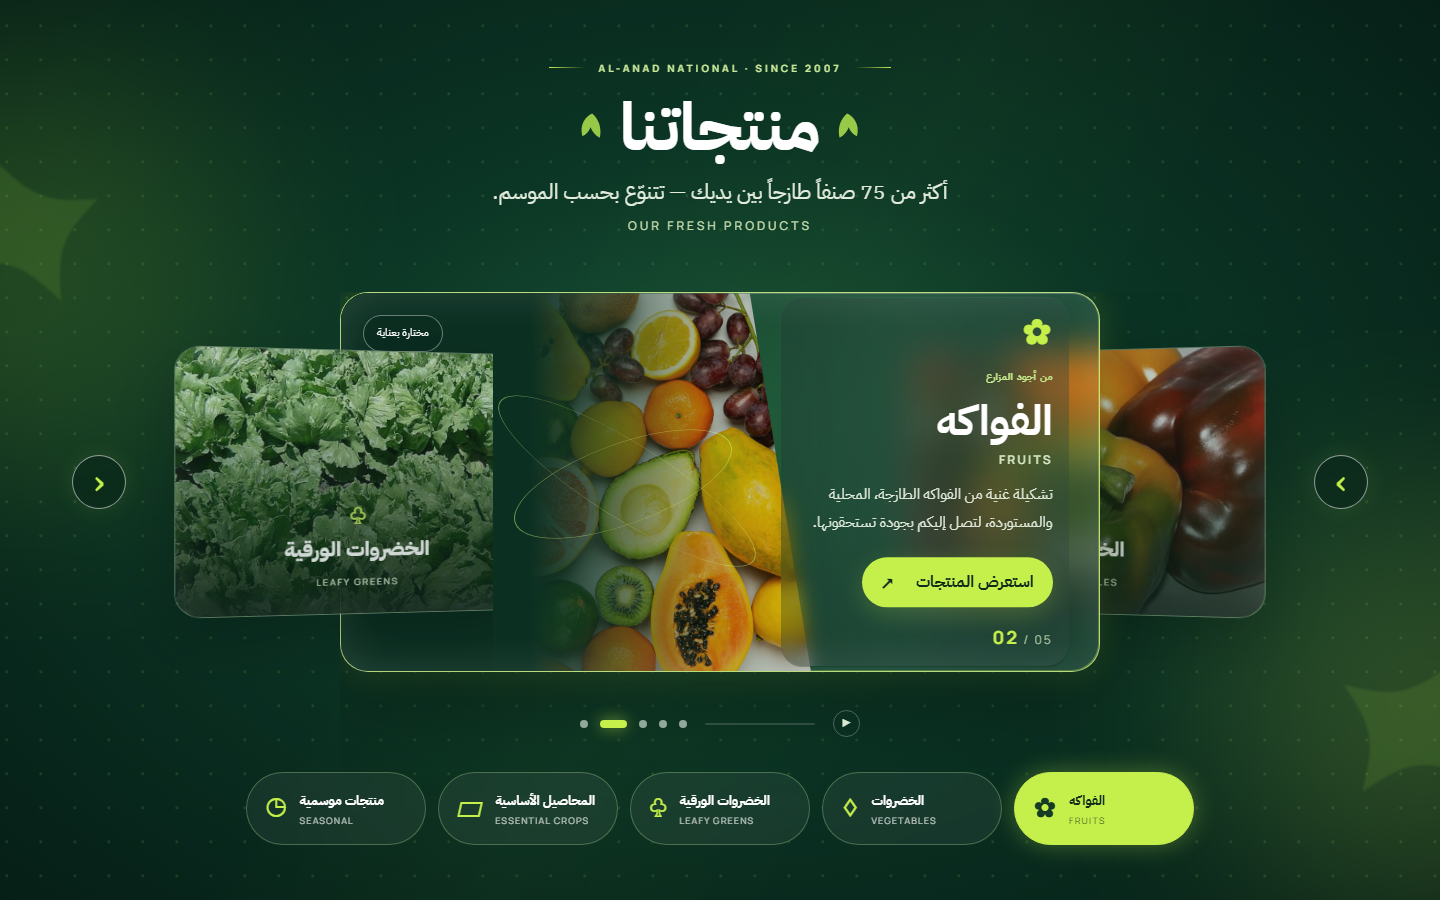
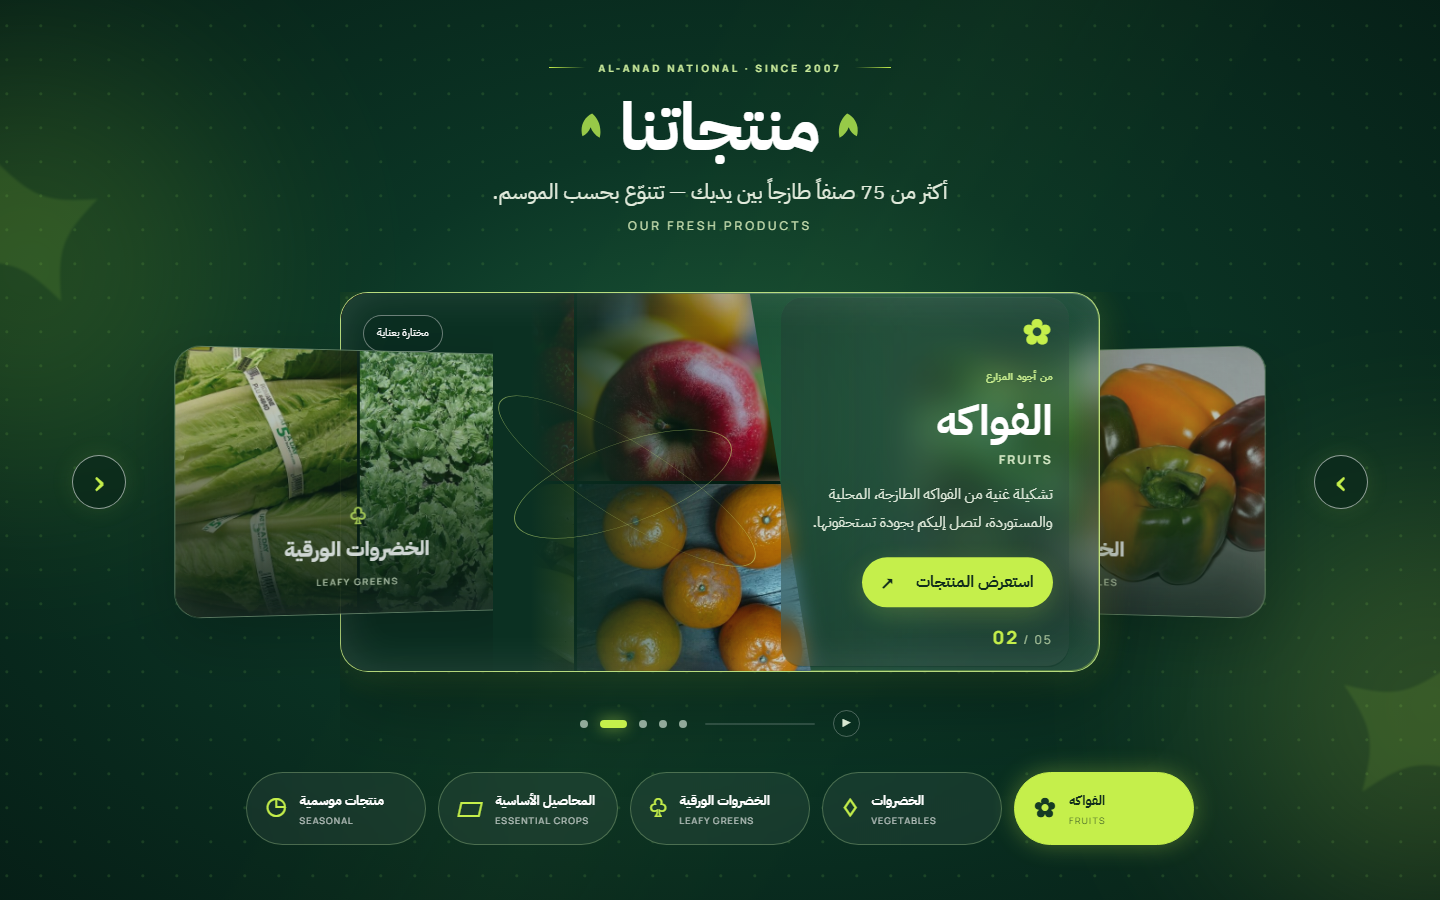
fix: show real produce photos inside glass product cards
Wire local /img/products collages (apple, grapes, oranges, peppers, leafy greens) into each category slide so cards match the mockup. Keep the 75-varieties subtitle.

Changed region(s): [[0.375, 0.3111, 0.5625, 0.7467], [0.0938, 0.3733, 0.3438, 0.6533], [0.625, 0.3733, 0.9062, 0.6533]]

diff --git a/src/effects/produce-slider/mount.js b/src/effects/produce-slider/mount.js
@@ -4,6 +4,7 @@
  * Integrates with site locale; local product photography.
  */
 
+/** Local produce photography only — mockup needs visible fruit/veg in every card. */
 const CATEGORIES = [
   {
     id: 'leafy',
@@ -14,7 +15,7 @@ const CATEGORIES = [
     descAr: 'أوراق خضراء مختارة بعناية، بطعم طازج وجودة تحافظ على قيمتها.',
     descEn: 'Carefully selected leafy greens, fresh in taste and quality.',
     icon: '♧',
-    image: '/img/products/lettuce.jpg',
+    images: ['/img/products/lettuce.jpg', '/img/products/romaine.jpg', '/img/products/spinach.jpg'],
   },
   {
     id: 'fruits',
@@ -26,10 +27,12 @@ const CATEGORIES = [
     descEn:
       'A vibrant selection of fresh local and imported fruits, delivered with the quality you expect.',
     icon: '✿',
-    // Package Unsplash hero — mixed fruit closer to glass mockup
-    image:
-      'https://images.unsplash.com/photo-1610832958506-aa56368176cf?auto=format&fit=crop&w=1400&q=90',
-    imageFallback: '/img/products/strawberry.jpg',
+    images: [
+      '/img/products/apple.jpg',
+      '/img/products/strawberry.jpg',
+      '/img/products/orange.jpg',
+      '/img/products/green-grapes.jpg',
+    ],
   },
   {
     id: 'vegetables',
@@ -40,7 +43,12 @@ const CATEGORIES = [
     descAr: 'خضروات متنوعة يتم اختيارها وتجهيزها لتلبية احتياجات عملائنا على مدار العام.',
     descEn: 'A versatile range of vegetables selected to serve our customers throughout the year.',
     icon: '♢',
-    image: '/img/products/red-pepper.jpg',
+    images: [
+      '/img/products/red-pepper.jpg',
+      '/img/products/green-pepper.jpg',
+      '/img/products/carrot.jpg',
+      '/img/products/cucumber.jpg',
+    ],
   },
   {
     id: 'staple',
@@ -51,7 +59,7 @@ const CATEGORIES = [
     descAr: 'محاصيل أساسية من مصادر موثوقة، مع اهتمام بالجودة واستمرارية التوريد.',
     descEn: 'Essential crops from trusted sources, with a focus on quality and dependable supply.',
     icon: '▱',
-    image: '/img/products/potato.jpg',
+    images: ['/img/products/potato.jpg', '/img/products/onion.jpg', '/img/products/garlic.jpg'],
   },
   {
     id: 'seasonal',
@@ -62,7 +70,7 @@ const CATEGORIES = [
     descAr: 'منتجات موسمية مختارة وفق توافر المحاصيل وأفضل مواسم الحصاد.',
     descEn: 'Seasonal selections chosen around availability and the best harvest periods.',
     icon: '◷',
-    image: '/img/products/tomato.jpg',
+    images: ['/img/products/tomato.jpg', '/img/products/watermelon.jpg', '/img/products/mango.jpg'],
   },
 ];
 
@@ -98,16 +106,19 @@ export function mountProduceSlider(section, opts = {}) {
     const photo = el?.querySelector('.slide-photo');
     const item = data[i];
     if (!photo || !item) return;
-    const primary = item.image;
-    const fallback = item.imageFallback;
-    photo.style.backgroundImage = `url("${primary}")`;
-    if (fallback && /^https?:/.test(primary)) {
-      const probe = new Image();
-      probe.onerror = () => {
-        photo.style.backgroundImage = `url("${fallback}")`;
-      };
-      probe.src = primary;
-    }
+    const srcs = item.images?.length ? item.images : item.image ? [item.image] : [];
+    if (!srcs.length) return;
+
+    // Prefer real <img> collage so produce is always visible (no remote CDN)
+    photo.style.backgroundImage = 'none';
+    photo.classList.toggle('is-collage', srcs.length > 1);
+    photo.classList.toggle('is-single', srcs.length === 1);
+    photo.innerHTML = srcs
+      .map(
+        (src) =>
+          `<img class="produce-shot" src="${src}" alt="" loading="eager" decoding="async" draggable="false" />`,
+      )
+      .join('');
   }
 
   function syncCopyAttrs() {

diff --git a/src/effects/produce-slider/styles.css b/src/effects/produce-slider/styles.css
@@ -178,7 +178,45 @@
   background-position: center;
   background-color: #0b3022;
   transition: transform 1.2s cubic-bezier(0.2, 0.7, 0.2, 1);
-  filter: saturate(1.08);
+  filter: saturate(1.12);
+  overflow: hidden;
+}
+#products .slide-photo .produce-shot {
+  display: block;
+  width: 100%;
+  height: 100%;
+  object-fit: cover;
+  object-position: center;
+  pointer-events: none;
+  user-select: none;
+}
+/* Mixed produce collage — every cell shows real fruit/veg */
+#products .slide-photo.is-collage {
+  display: grid;
+  grid-template-columns: 1fr 1fr;
+  grid-template-rows: 1fr 1fr;
+  gap: 3px;
+  background: #041910;
+}
+#products .slide-photo.is-collage .produce-shot {
+  min-height: 0;
+  min-width: 0;
+  width: 100%;
+  height: 100%;
+}
+#products .slide-photo.is-collage .produce-shot:nth-child(n + 5) {
+  display: none;
+}
+#products .slide-photo.is-single {
+  display: block;
+}
+/* Side peek cards: two-up so produce still reads at a glance */
+#products .side-slide .slide-photo.is-collage {
+  grid-template-columns: 1fr 1fr;
+  grid-template-rows: 1fr;
+}
+#products .side-slide .slide-photo.is-collage .produce-shot:nth-child(n + 3) {
+  display: none;
 }
 #products .slide::after {
   content: '';
